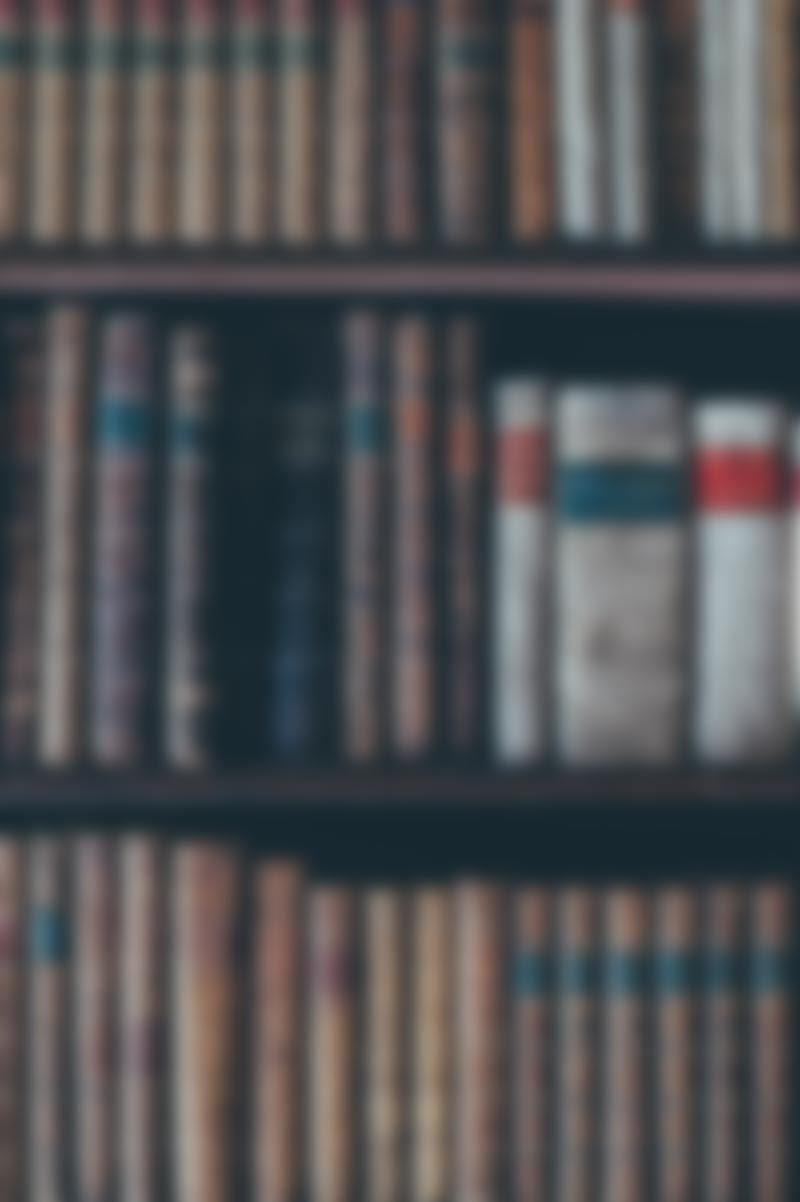
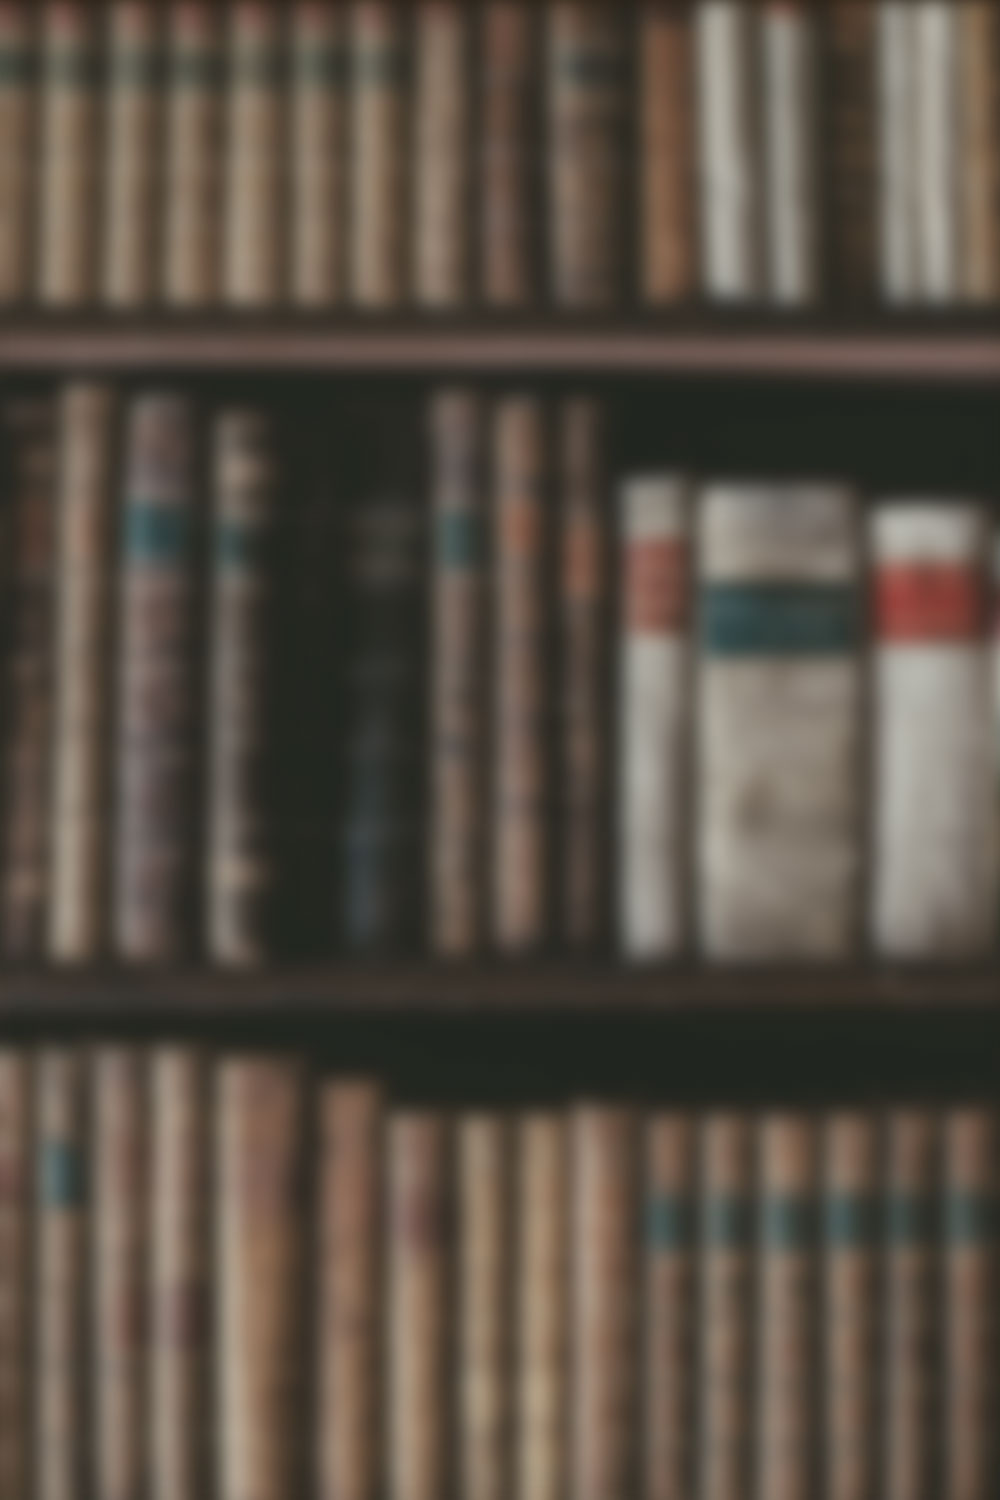
Change default image and color

diff --git a/_layouts/base.html b/_layouts/base.html
@@ -4,8 +4,8 @@ layout: compress
 
 {% assign author = site.data.authors[page.author] | default:site.data.authors.first[1] %}
 
-{% assign color = site.color | default:'#A85641' %}
-{% assign image = site.image | default:'/assets/img/nap.jpg' %}
+{% assign color = site.color | default:'#967954' %}
+{% assign image = site.image | default:'/assets/img/gst.jpg' %}
 
 {% if page.categories.size > 0 %}
   {% assign category_name = page.categories.first %}

diff --git a/about.md b/about.md
@@ -21,9 +21,9 @@ For further instructions, check out the [Documentation](/hydejack/docs/6.0.0-bet
 ## Image Credit
 
 Sidebar (default)
-: [Napoleon Crossing the Alps ](https://en.wikipedia.org/wiki/Napoleon_Crossing_the_Alps#/media/File:Jacques_Louis_David_-_Bonaparte_franchissant_le_Grand_Saint-Bernard,_20_mai_1800_-_Google_Art_Project.jpg)
+: [Sergey Zolkin](https://unsplash.com/photos/E0Spm6XXn2Y)
 
 Sidebar (Documentation)
-: [Annie Spratt](https://unsplash.com/search/library?photo=lIWF2uHxs0Q)
+: [Annie Spratt](https://unsplash.com/photos/lIWF2uHxs0Q)
 
 [^1]: Hydejack is fast in two different ways. Its *perceived speed* hides latency through a combination of animations and a complex pre-fetching logic. *Load speed* is achieved through inlining critical CSS and removing non-essential requests from the critical rendering path.

diff --git a/_posts/2016-09-17-the-fast-one.md b/_posts/2016-09-17-the-fast-one.md
@@ -4,6 +4,8 @@ title: 'v5: The Fast One'
 tags: [hydejack]
 description: >
   This release dramatically increases page load speed which matters to Google and visitors with slow connections alike.
+image: /hydejack/assets/img/nap.jpg
+color: '#A85641'
 ---
 
 This major release increases page load speed dramatically. The page now scores roughly 90/100 on [Google's PageSpeed Insights](https://developers.google.com/speed/pagespeed/insights/?url=http%3A%2F%2Fqwtel.com%2Fhydejack%2F) (up from ~50) and has a high score on similar tools.

diff --git a/_posts/2016-03-08-introducing-hydejack.md b/_posts/2016-03-08-introducing-hydejack.md
@@ -4,6 +4,8 @@ title: Introducing Hydejack
 tags: [hydejack]
 description: >
   Hydejack is a pretentious two-column [Jekyll](http://jekyllrb.com) theme, stolen by [`@qwtel`](https://twitter.com/qwtel) from [Hyde](http://hyde.getpoole.com). You could say it was.. [hydejacked](http://media3.giphy.com/media/makedRIckZBW8/giphy.gif).
+image: /hydejack/assets/img/nap.jpg
+color: '#A85641'
 
 ---
 

diff --git a/docs/6.0.0-beta2/build.md b/docs/6.0.0-beta2/build.md
@@ -2,8 +2,8 @@
 layout: page
 title: Build
 image: '/hydejack/assets/img/doc.jpg'
-color: '#8e5c75'
-redirect_from: /docs/latest/deployment/
+color: '#967954'
+redirect_from: /docs/latest/build/
 ---
 
 Hydejack supports building locally and on GitHub pages. However, when building on GitHub Pages, providing better related posts via the LSI is not available.

diff --git a/_posts/2016-08-30-social-media-impocalypse.md b/_posts/2016-08-30-social-media-impocalypse.md
@@ -4,6 +4,8 @@ title: 'v4: Social Media Impocalypse'
 tags: [hydejack]
 description: >
   This release adds *a lot* of social media icons and introduces a new default layout. It also breaks things, hence a new major release number.
+image: /hydejack/assets/img/nap.jpg
+color: '#A85641'
 ---
 
 ## Breaking

diff --git a/docs/6.0.0-beta2/configuration.md b/docs/6.0.0-beta2/configuration.md
@@ -2,7 +2,7 @@
 layout: page
 title: Configuration
 image: '/hydejack/assets/img/doc.jpg'
-color: '#8e5c75'
+color: '#967954'
 redirect_from: /docs/latest/configuration/
 ---
 

diff --git a/docs/6.0.0-beta2/installation.md b/docs/6.0.0-beta2/installation.md
@@ -2,7 +2,7 @@
 layout: page
 title: Installation
 image: '/hydejack/assets/img/doc.jpg'
-color: '#8e5c75'
+color: '#967954'
 redirect_from: /docs/latest/installation/
 ---
 

diff --git a/docs/6.0.0-beta2/index.md b/docs/6.0.0-beta2/index.md
@@ -4,7 +4,7 @@ title: Documentation
 menu: true
 order: 5
 image: '/hydejack/assets/img/doc.jpg'
-color: '#8e5c75'
+color: '#967954'
 redirect_from: /docs/latest/
 ---
 

diff --git a/docs/6.0.0-beta2/migration.md b/docs/6.0.0-beta2/migration.md
@@ -2,7 +2,7 @@
 layout: page
 title: Migration
 image: '/hydejack/assets/img/doc.jpg'
-color: '#8e5c75'
+color: '#967954'
 redirect_from: /docs/latest/migration/
 ---
 

diff --git a/docs/6.0.0-beta2/advanced.md b/docs/6.0.0-beta2/advanced.md
@@ -2,7 +2,7 @@
 layout: page
 title: Advanced
 image: '/hydejack/assets/img/doc.jpg'
-color: '#8e5c75'
+color: '#967954'
 redirect_from: /docs/latest/advanced/
 ---
 

diff --git a/docs/6.0.0-beta2/writing.md b/docs/6.0.0-beta2/writing.md
@@ -2,7 +2,7 @@
 layout: page
 title: Writing
 image: '/hydejack/assets/img/doc.jpg'
-color: '#8e5c75'
+color: '#967954'
 redirect_from: /docs/latest/writing/
 ---
 
